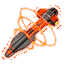
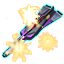
Add cryo clearing missiles

diff --git a/Cryopath/CryoMissileTurret.cs b/Cryopath/CryoMissileTurret.cs
@@ -33,6 +33,75 @@ namespace ReikaKalseki.Cryopathy {
 
 		//cryo bombers are 6, and melters are single target
 		public static readonly int BLAST_RADIUS = 7; //15x15x15
+
+		private bool mbLinkedToGO;
+
+		private System.Random mRand;
+
+		public int maStoredMissileType;
+
+		private Animation mAnim;
+
+		private int mnClientPreviousMissileID;
+
+		private float RestTime;
+
+		private GameObject Turret;
+
+		private GameObject melterGFX;
+		private GameObject spawnerGFX;
+
+		private int mnUnityUpdates;
+
+		private float mrSpinRate;
+
+		private float mrSpinTimer;
+		
+		private float fireCooldown;
+
+		private Vector3 mVectorToTarget;
+
+		private float mrLowPowerTime;
+
+		private bool mnRequestMissileFire;
+
+		private StorageMachineInterface[] maAttachedHoppers;
+
+		public int mnNumValidAttachedHoppers;
+
+		public int mnNumInvalidAttachedHoppers;
+
+		public float mrLoadTimer;
+
+		public bool mbNoMissilesLoaded;
+
+		public float mrClientShotDelayTimer;
+
+		public Coordinate visualTarget;
+
+		public int mnTargetHealthLeft = -1;
+
+		public float mrCurrentPower;
+
+		public float mrMaxPower = 5000;
+
+		public float mrMaxTransferRate = 5000;
+		
+		private Coordinate currentTarget;
+		
+		private int cachedMissileType;
+
+		private float impactDelay;
+	
+		private int segmentFailCount;
+		
+		private readonly SpiralSearchQueue searchQueue = new SpiralSearchQueue(MAX_RANGE/16, -2, 3);
+		
+		public readonly int MELTER_ITEM_ID = ItemEntry.mEntriesByKey["ReikaKalseki.CryoMelterMissile"].ItemID;
+		public readonly int CLEARING_ITEM_ID = ItemEntry.mEntriesByKey["ReikaKalseki.CryoClearingMissile"].ItemID;
+		public readonly int SPAWNER_ITEM_ID = ItemEntry.mEntriesByKey["ReikaKalseki.CryoSpawnerMissile"].ItemID;
+		
+		private readonly HashSet<ushort> searchIDs = new HashSet<ushort>();
 	
 		public CryoMissileTurret(Segment segment, long x, long y, long z, ushort cube, byte flags, ushort lValue, bool loadFromDisk) : base(eSegmentEntity.Mod, SpawnableObjectEnum.MissileTurret_T1, x, y, z, cube, flags, lValue, Vector3.zero, segment) {
 			this.mbNeedsLowFrequencyUpdate = true;
@@ -190,7 +259,7 @@ namespace ReikaKalseki.Cryopathy {
 		}
 		
 		private GameObject getFX() {
-			if (maStoredMissileType == MELTER_ITEM_ID)
+			if (maStoredMissileType == MELTER_ITEM_ID || maStoredMissileType == CLEARING_ITEM_ID)
 				return melterGFX;
 			else if (maStoredMissileType == SPAWNER_ITEM_ID)
 				return spawnerGFX;
@@ -322,13 +391,14 @@ namespace ReikaKalseki.Cryopathy {
 			return -1;
 		}
 		
-		private ushort getSeekBlock() {
-			if (maStoredMissileType == MELTER_ITEM_ID)
-				return eCubeTypes.ColdCreep;
-			else if (maStoredMissileType == SPAWNER_ITEM_ID)
-				return eCubeTypes.ColdCreepSpawner;
-			else
-				return 0;
+		private void getSeekBlocks() {
+			searchIDs.Clear();
+			if (maStoredMissileType == MELTER_ITEM_ID || maStoredMissileType == CLEARING_ITEM_ID)
+				searchIDs.Add(eCubeTypes.ColdCreep);
+			if (maStoredMissileType == CLEARING_ITEM_ID)
+				searchIDs.Add(eCubeTypes.ColdCreepFluid);
+			if (maStoredMissileType == SPAWNER_ITEM_ID)
+				searchIDs.Add(eCubeTypes.ColdCreepSpawner);
 		}
 
 		private void LoadMissile() {
@@ -340,6 +410,8 @@ namespace ReikaKalseki.Cryopathy {
 				}
 				int old = maStoredMissileType;
 				maStoredMissileType = this.RemoveMissileFromHopper(MELTER_ITEM_ID);
+				if (maStoredMissileType <= 0)
+					maStoredMissileType = this.RemoveMissileFromHopper(CLEARING_ITEM_ID);
 				if (maStoredMissileType <= 0)
 					maStoredMissileType = this.RemoveMissileFromHopper(SPAWNER_ITEM_ID);
 				if (this.maStoredMissileType != old) {
@@ -356,8 +428,8 @@ namespace ReikaKalseki.Cryopathy {
 		private void ApplyDelayedImpact() {
 			if (this.currentTarget == null) {
 				this.impactDelay = 0;
-				FUtil.log("Target nulled before ["+isStunMissile+"] impact?!");
-				isStunMissile = false;
+				FUtil.log("Target nulled before ["+cachedMissileType+"] impact?!");
+				cachedMissileType = -1;
 				return;
 			}
 			//FUtil.log("Impact ["+isStunMissile+"] @ "+currentTarget.fromRaw());
@@ -367,16 +439,19 @@ namespace ReikaKalseki.Cryopathy {
 			//if (id <= 0)
 			//	return;
 
+			int r = BLAST_RADIUS;
+			if (cachedMissileType == CLEARING_ITEM_ID)
+				r -= 2; //slightly reduce AoE from 7 to 5 (15x15x15 to 11x11x11)
 			int n = 0;
-			for (int i = -BLAST_RADIUS; i <= BLAST_RADIUS; i++) {
-				for (int j = -BLAST_RADIUS; j <= BLAST_RADIUS; j++) {
-					for (int k = -BLAST_RADIUS; k <= BLAST_RADIUS; k++) {
+			for (int i = -r; i <= r; i++) {
+				for (int j = -r; j <= r; j++) {
+					for (int k = -r; k <= r; k++) {
 						Vector3 vector = new Vector3((float)i, (float)j, (float)k);
-						if (vector.sqrMagnitude <= (float)(BLAST_RADIUS * BLAST_RADIUS)) {
+						if (vector.sqrMagnitude <= (float)(r * r)) {
 							long dx = this.currentTarget.xCoord + (long)i;
 							long dy = this.currentTarget.yCoord + (long)j;
 							long dz = this.currentTarget.zCoord + (long)k;
-							Segment segment = base.AttemptGetSegment(dx, dy, dz);
+							Segment segment = AttemptGetSegment(dx, dy, dz);
 							if (segment != null) {
 								ushort cube = segment.GetCube(dx, dy, dz);
 								//FUtil.log("AoE @ "+i+","+j+","+k+" hits "+FUtil.blockToString(new Coordinate(dx, dy, dz), this));
@@ -384,14 +459,22 @@ namespace ReikaKalseki.Cryopathy {
 								//	WorldScript.instance.BuildFromEntity(segment, dx, dy, dz, place);
 								//	CCCCC.CryoKillCount += 1U;
 								//} do not count as cryo kill since it does not destroy it
-								if (cube == eCubeTypes.ColdCreep && !isStunMissile) {
-									ushort meta = TerrainData.GetDefaultValue(eCubeTypes.ColdCreepFluid);	
-									WorldScript.instance.BuildFromEntity(segment, dx, dy, dz, eCubeTypes.ColdCreepFluid, meta);
-									segment.SetCubeTypeNoChecking((int)(dx % 16L), (int)(dy % 16L), (int)(dz % 16L), 683, meta);
-									segment.AddedFluid(false);
-									n++;
+								if (cube == eCubeTypes.ColdCreep || cube == eCubeTypes.ColdCreepFluid) {
+									if (cube == eCubeTypes.ColdCreep && cachedMissileType == MELTER_ITEM_ID) {
+										ushort meta = TerrainData.GetDefaultValue(eCubeTypes.ColdCreepFluid);	
+										WorldScript.instance.BuildFromEntity(segment, dx, dy, dz, eCubeTypes.ColdCreepFluid, meta);
+										segment.SetCubeTypeNoChecking((int)(dx % 16L), (int)(dy % 16L), (int)(dz % 16L), eCubeTypes.ColdCreepFluid, meta);
+										segment.AddedFluid(false);
+										n++;
+									}
+									else if (cachedMissileType == CLEARING_ITEM_ID) {
+										WorldScript.instance.BuildFromEntity(segment, dx, dy, dz, eCubeTypes.Air, TerrainData.DefaultAirValue);
+										segment.SetCubeTypeNoChecking((int)(dx % 16L), (int)(dy % 16L), (int)(dz % 16L), eCubeTypes.Air, TerrainData.DefaultAirValue);
+										CCCCC.CryoKillCount++;
+										n++;
+									}
 								}
-								else if (isStunMissile && cube == eCubeTypes.ColdCreepSpawner) {
+								else if (cachedMissileType == SPAWNER_ITEM_ID && cube == eCubeTypes.ColdCreepSpawner) {
 									ColdCreepSpawner spawner = segment.FetchEntity(eSegmentEntity.ColdCreepSpawner, dx, dy, dz) as ColdCreepSpawner;
 									if (spawner != null) {
 										CryopathyMod.pauseCryospawner(spawner);
@@ -415,15 +498,17 @@ namespace ReikaKalseki.Cryopathy {
 			}
 			//FUtil.log(n+" blocks affected.");
 			if (n > 0) {
-				if (isStunMissile)
+				if (cachedMissileType == SPAWNER_ITEM_ID)
 					FloatingCombatTextManager.instance.QueueText(currentTarget.xCoord, currentTarget.yCoord, currentTarget.zCoord, 2f, "Impact!", Color.yellow, 5f, 512f);
-				else
+				else if (cachedMissileType == MELTER_ITEM_ID)
 					FloatingCombatTextManager.instance.QueueText(currentTarget.xCoord, currentTarget.yCoord, currentTarget.zCoord, 2f, "Impact melted "+n+" cryoplasm!", Color.yellow, 5f, 512f);
+				else if (cachedMissileType == CLEARING_ITEM_ID)
+					FloatingCombatTextManager.instance.QueueText(currentTarget.xCoord, currentTarget.yCoord, currentTarget.zCoord, 2f, "Impact destroyed "+n+" cryoplasm!", Color.yellow, 5f, 512f);
 			}
 			else {
 				FloatingCombatTextManager.instance.QueueText(currentTarget.xCoord, currentTarget.yCoord, currentTarget.zCoord, 2f, "Found no target!", Color.red, 5f, 512f);
 			}
-			isStunMissile = false;
+			cachedMissileType = -1;
 			currentTarget = null;
 		}
 	
@@ -432,6 +517,8 @@ namespace ReikaKalseki.Cryopathy {
 		}
 	
 		private bool isValidSpawnerTarget(ColdCreepSpawner spawner) { //maybe add an AoE check, eg no more than 6 cryo in a 5x5x5 centered on
+			if (CryopathyMod.isCryospawnerPaused(spawner))
+				return false;
 			const int r0 = 2;
 			int cryo = 0;
 			for (int a = -r0; a <= r0; a++) {
@@ -457,14 +544,15 @@ namespace ReikaKalseki.Cryopathy {
 			return cryo <= 6;
 		}
 	
-		private Coordinate findTarget(ushort id, long x, long y, long z, out Segment s) {
+		private Coordinate findTarget(long x, long y, long z, out Segment s) {
 			s = AttemptGetSegment(x, y, z);
 			if (!s.isSegmentValid())
 				return null;
 			for (int j = 15; j >= 0; j--) {
 				for (int i = 0; i < 16; i++) {
 					for (int k = 0; k < 16; k++) {
-						if (s.GetCubeNoChecking(i, j, k) == id && isValidBlockTarget(id, s, i, j, k)) {
+						ushort id = s.GetCubeNoChecking(i, j, k);
+						if (searchIDs.Contains(id) && isValidBlockTarget(id, s, i, j, k)) {
 							return new Coordinate(s.baseX + (long)i, s.baseY + (long)j, s.baseZ + (long)k);
 						}
 					}
@@ -473,7 +561,7 @@ namespace ReikaKalseki.Cryopathy {
 			return null;
 		}
 		
-		private Coordinate ScanForBlock(ushort id) {
+		private Coordinate ScanForBlocks() {
 			Coordinate offset = searchQueue.getPosition()*16;
 			
 			while (offset.asVector3().magnitude < MIN_RANGE) {
@@ -487,7 +575,7 @@ namespace ReikaKalseki.Cryopathy {
 			long y = this.mnY + offset.yCoord;
 			long z = this.mnZ + offset.zCoord;
 			Segment s;
-			Coordinate found = findTarget(id, x, y, z, out s);
+			Coordinate found = findTarget(x, y, z, out s);
 			//if (s == null)
 			//	FUtil.log(this+" got null segment @ "+offset+" (xyz= "+(x-WorldUtil.COORD_OFFSET)+", "+(y-WorldUtil.COORD_OFFSET)+", "+(z-WorldUtil.COORD_OFFSET)+") F="+mFrustrum+", "+mFrustrum.GetSegment(x, y, z)+"/"+WorldScript.instance.GetSegment(x, y, z));
 			//else
@@ -515,7 +603,7 @@ namespace ReikaKalseki.Cryopathy {
 			//FUtil.log(this+" firing "+name+" upon "+FUtil.blockToString(c, this)+" @ "+c2);
 			FloatingCombatTextManager.instance.QueueText(this.mnX, mnY, this.mnZ, 1f, "Firing "+name+" to "+c2+"!", Color.yellow, 3f, 128f);
 			currentTarget = c;
-			isStunMissile = maStoredMissileType == SPAWNER_ITEM_ID;
+			cachedMissileType = maStoredMissileType;
 			Vector3 vec = Vector3.zero;
 			vec.x = (float)(currentTarget.xCoord - this.mnX);
 			vec.y = (float)(currentTarget.yCoord - this.mnY);
@@ -584,12 +672,12 @@ namespace ReikaKalseki.Cryopathy {
 			if (currentTarget == null && mrCurrentPower >= REQUIRED_PPS && maStoredMissileType > 0) {
 				this.mrCurrentPower -= REQUIRED_PPS*LowFrequencyThread.mrPreviousUpdateTimeStep;
 				if (fireCooldown <= 0) {
-					ushort seek = getSeekBlock();
-					if (seek == 0)
+					getSeekBlocks();
+					if (searchIDs.Count == 0)
 						return;
 					
 					Coordinate c = null;
-					if (seek == eCubeTypes.ColdCreepSpawner) {
+					if (searchIDs.First() == eCubeTypes.ColdCreepSpawner) {
 						for (int i = 0; i < 8; i++) {
 							ColdCreepSpawner spawner = CryopathyMod.getCryospawner(i, AttemptGetSegment);
 							if (spawner != null && !spawner.mbDelete) {
@@ -600,7 +688,7 @@ namespace ReikaKalseki.Cryopathy {
 						}
 					}
 					else {
-						c = ScanForBlock(seek);
+						c = ScanForBlocks();
 					}
 					
 					if (c != null)
@@ -663,72 +751,6 @@ namespace ReikaKalseki.Cryopathy {
 			}
 			return ret;
 		}
-
-		private bool mbLinkedToGO;
-
-		private System.Random mRand;
-
-		public int maStoredMissileType;
-
-		private Animation mAnim;
-
-		private int mnClientPreviousMissileID;
-
-		private float RestTime;
-
-		private GameObject Turret;
-
-		private GameObject melterGFX;
-		private GameObject spawnerGFX;
-
-		private int mnUnityUpdates;
-
-		private float mrSpinRate;
-
-		private float mrSpinTimer;
-		
-		private float fireCooldown;
-
-		private Vector3 mVectorToTarget;
-
-		private float mrLowPowerTime;
-
-		private bool mnRequestMissileFire;
-
-		private StorageMachineInterface[] maAttachedHoppers;
-
-		public int mnNumValidAttachedHoppers;
-
-		public int mnNumInvalidAttachedHoppers;
-
-		public float mrLoadTimer;
-
-		public bool mbNoMissilesLoaded;
-
-		public float mrClientShotDelayTimer;
-
-		public Coordinate visualTarget;
-
-		public int mnTargetHealthLeft = -1;
-
-		public float mrCurrentPower;
-
-		public float mrMaxPower = 5000;
-
-		public float mrMaxTransferRate = 5000;
-		
-		private Coordinate currentTarget;
-		
-		private bool isStunMissile;
-
-		private float impactDelay;
-	
-		private int segmentFailCount;
-		
-		private readonly SpiralSearchQueue searchQueue = new SpiralSearchQueue(MAX_RANGE/16, -2, 3);
-		
-		public readonly int MELTER_ITEM_ID = ItemEntry.mEntriesByKey["ReikaKalseki.CryoMelterMissile"].ItemID;
-		public readonly int SPAWNER_ITEM_ID = ItemEntry.mEntriesByKey["ReikaKalseki.CryoSpawnerMissile"].ItemID;
 	}
 	
 }

diff --git a/Cryopath/CryopathyMod.cs b/Cryopath/CryopathyMod.cs
@@ -75,6 +75,11 @@ namespace ReikaKalseki.Cryopathy
     	spawnerPauseTimes[id] = Time.time;
     }
     
+    public static bool isCryospawnerPaused(ColdCreepSpawner spawner) {
+    	int id = (int)spawnerID.GetValue(spawner);
+    	return isCryospawnerPaused(spawner, id);
+    }
+    
     public static bool isCryospawnerPaused(ColdCreepSpawner spawner, int id) {
     	setCryospawner(spawner, id);
     	return Time.time-spawnerPauseTimes[id] < config.getFloat(CRConfig.ConfigEntries.STUN_TIME);
